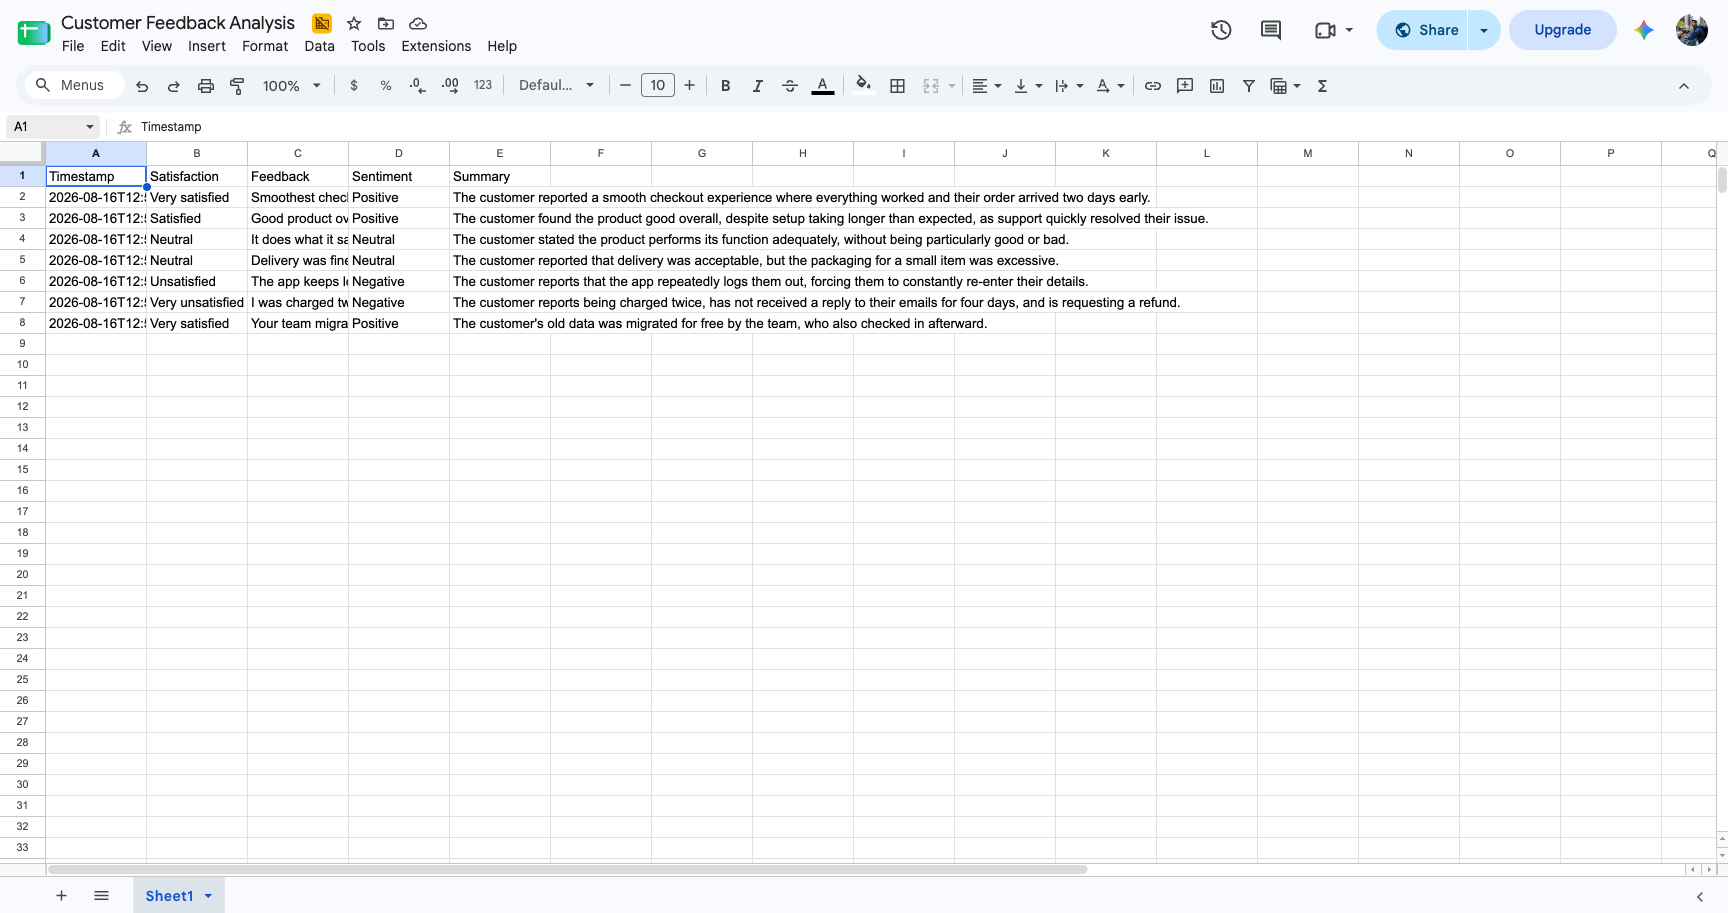
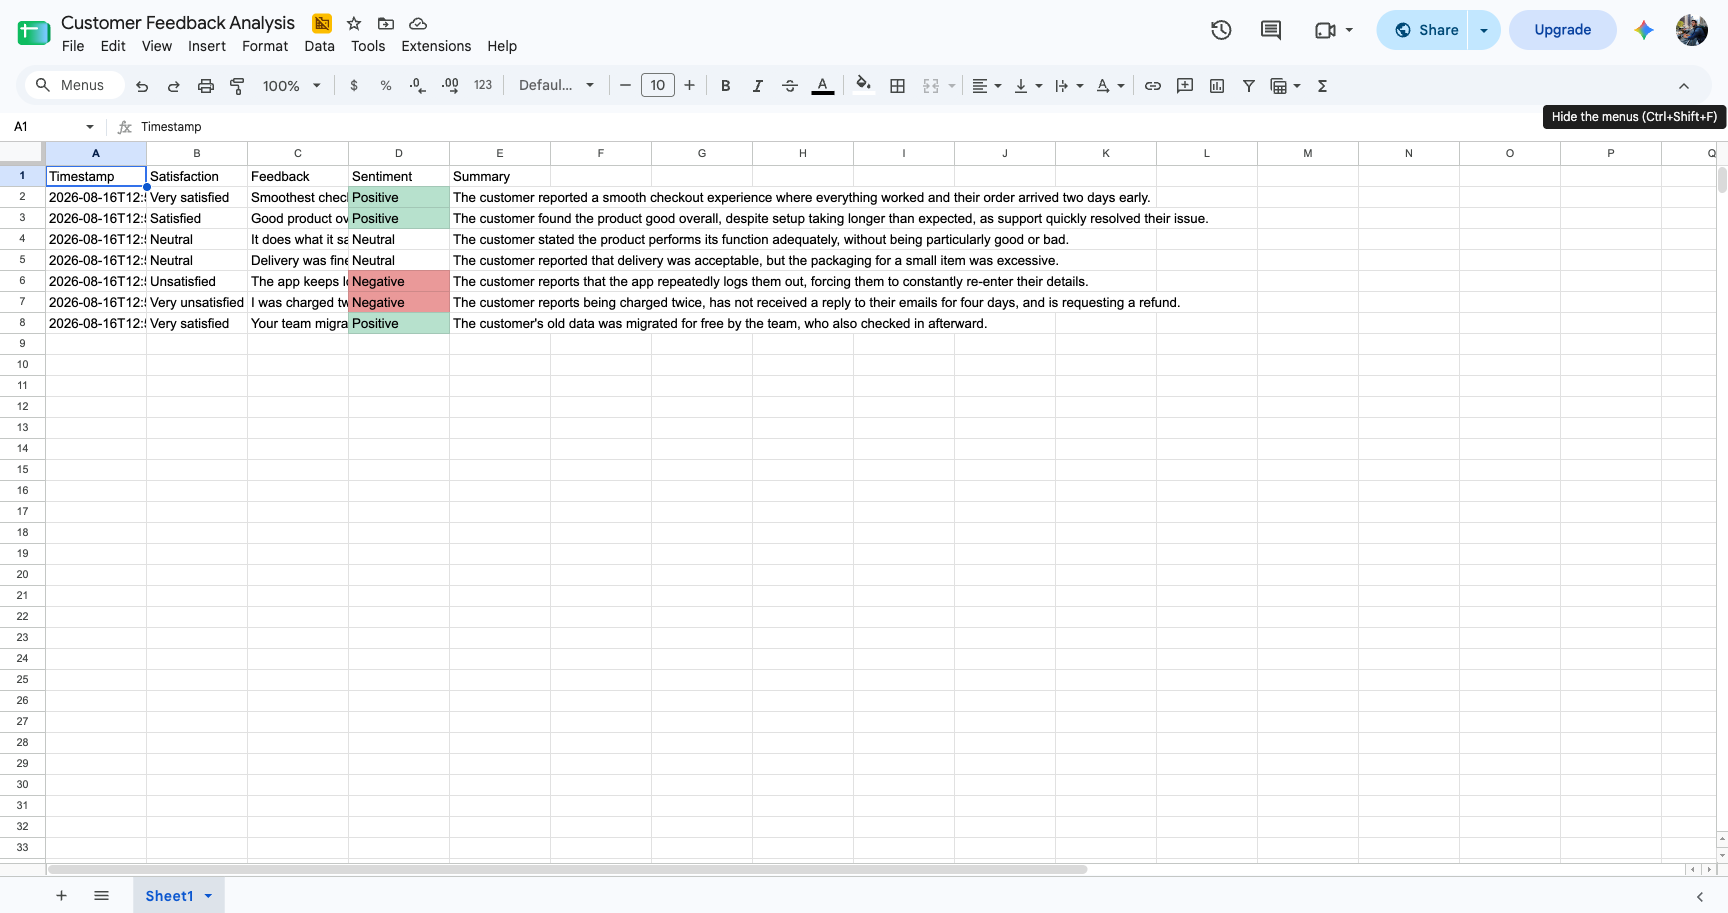
polish: color-coded sentiment in Sheet + extras section in README

Changed region(s): [[0.1875, 0.184, 0.2812, 0.368], [0.875, 0.092, 1.0, 0.1533]]

diff --git a/projects/automated-feedback-analysis/README.md b/projects/automated-feedback-analysis/README.md
@@ -90,6 +90,17 @@ described the same class of problem: billing and account reliability (a double-c
 with no reply, and repeated forced logouts). That's something a team can actually
 prioritize, not just a vague "some customers are unhappy."
 
+## Extras beyond the brief
+
+- **Email alert** (the optional step) is fully built and tested — two real alerts fired
+  on the verification run.
+- **Color-coded sentiment in the Sheet** — conditional formatting turns Positive cells
+  green and Negative cells red, so the log reads at a glance.
+- **Fallback logic in the prompt** — empty feedback returns a fixed Neutral JSON object
+  instead of confusing the parser.
+- **Classification rules in the prompt** — added after testing caught a borderline
+  comment flip-flopping between runs.
+
 ## What I'd improve with more time and tools
 
 - **Slack alerts** — post negatives into a `#customer-alerts` channel instead of just
